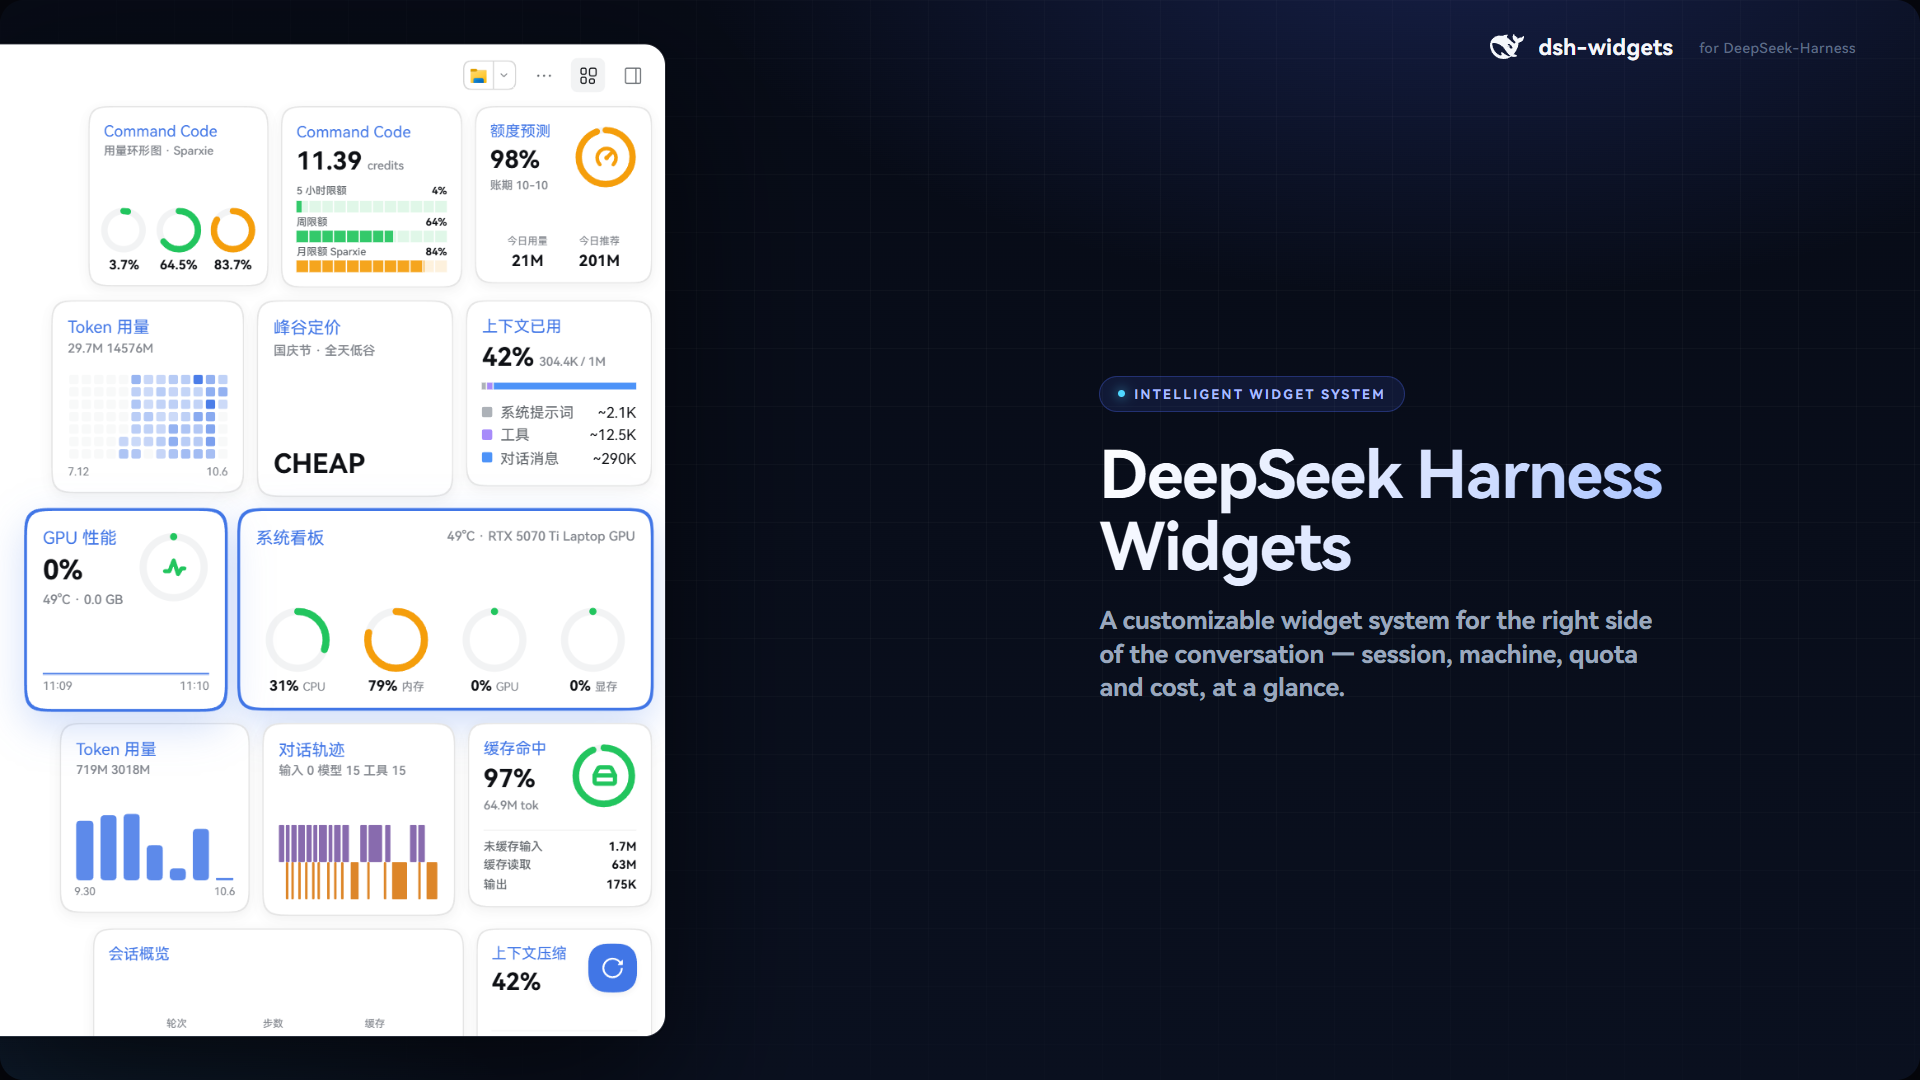
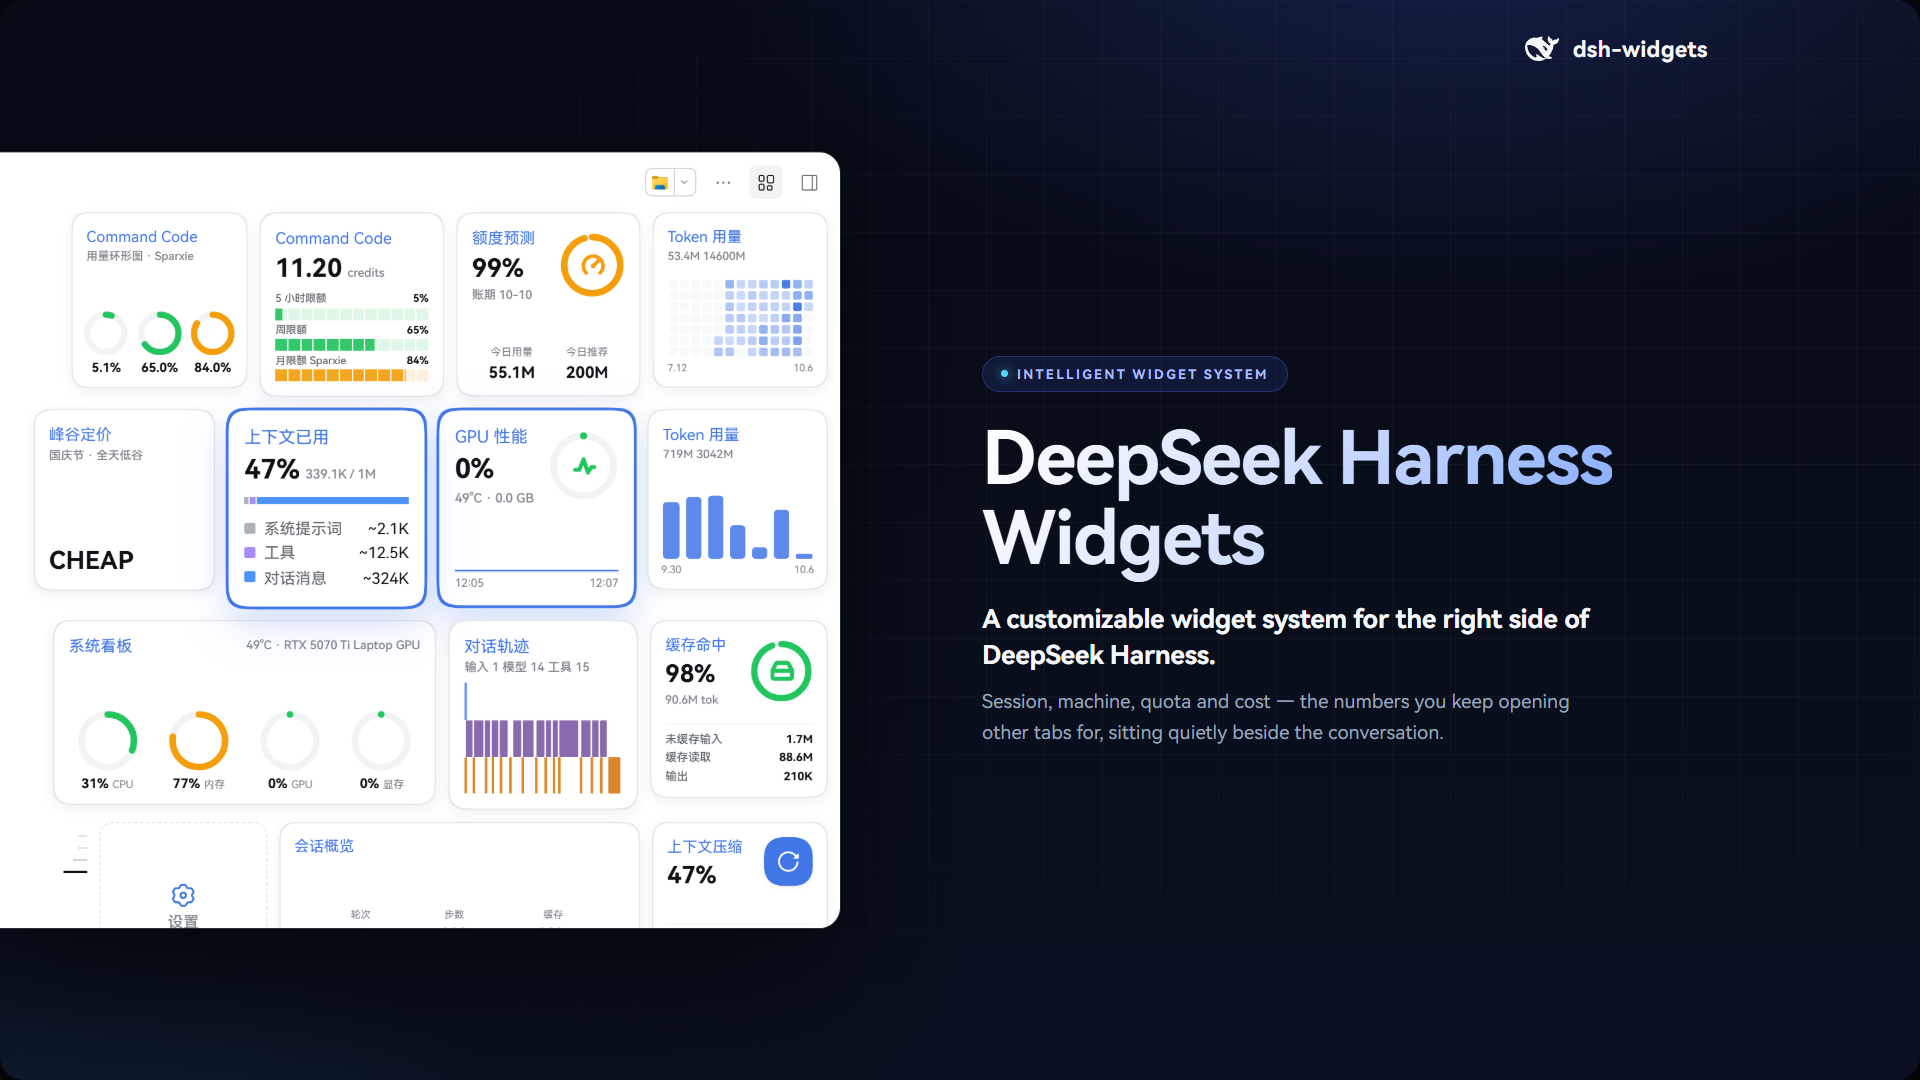
docs(readme): a two-language cover poster, and the rail shot in four columns
The cover is now a poster with the widgets on the left and the copy on the right, both languages: cover.png (English) and cover.zh-CN.png (?lang=zh), so README.md and README.zh-CN.md each show their own. The rail in it is a FOUR-column capture with the hover wave engaged, cropped to the rail so no conversation is ever in frame.

The description matches the README hero word for word, the brand row keeps only the logo and the wordmark, and the brand row plus both description lines are given the title own width so the block has one left edge and one right edge.

Changed region(s): [[0.0, 0.0306, 0.4375, 0.9778], [0.5, 0.3056, 0.875, 0.7028], [0.7812, 0.0306, 0.9688, 0.0611]]

diff --git a/docs/screenshots/README.md b/docs/screenshots/README.md
@@ -4,19 +4,24 @@ The captured / generated images the README and the plugin market showcase use.
 
 | File | Origin | What it shows |
 | --- | --- | --- |
+| `cover.png` | generated | the poster on the README's first screen (English copy) — `docs/poster/index.html` via `node docs/poster/render.cjs` |
+| `cover.zh-CN.png` | generated | the same poster with the Chinese copy (`?lang=zh`), used by `README.zh-CN.md` |
+| `desktop-rail.png` | captured, desktop app | the rail in a 4-column grid with the hover wave engaged (shot by `scripts/demo/desktop-shots.cjs`; the poster embeds it as `docs/poster/rail-portrait.png`) |
+| `desktop-rail-rest.png` | captured, desktop app | the same rail at rest, 3 columns |
+| `desktop-market.png` | captured, desktop app | the market panel — install, resize and switch cards off |
+| `rail-demo.gif` | captured, frame-stepped | the magnification wave in motion (13 fps palette GIF, 480×784, 3.8 MB) |
+| `rail-demo.mp4` | captured, frame-stepped | the same clip at full resolution (948×1548, 25 fps, 1.5 MB) |
 | `rail-widgets.png` | captured | the right-hand rail with its widgets seated |
 | `dock-magnify.png` | captured | the macOS-Dock-style magnification wave |
 | `add-panel.png` | captured | the add-widget panel |
-| `rail-demo.gif` | captured, frame-stepped | the magnification wave in motion — the README's motion asset (13 fps palette GIF, 480×784, 3.8 MB) |
-| `rail-demo.mp4` | captured, frame-stepped | the same clip at full resolution (948×1548, 25 fps, 1.5 MB) |
 | `widget-cards.png` | generated | the first five widget cards, screenshotted from `widget-cards-preview.html` with headless Edge |
 | `widget-cards-preview.html` | generated | a standalone HTML page reproducing those five cards (re-shoot with `msedge --headless=new --screenshot=widget-cards.png --window-size=900,260 widget-cards-preview.html`) |
 
-The two `rail-demo.*` files come from `node scripts/demo/rail-demo.cjs` — **not** a screen
-recorder. The script steps the live page on CDP virtual time (one exact per-frame budget
-per screenshot), so the same input renders the same clip, and it crops to the rail alone
-so the owner's conversation never lands in a public asset. Re-run it after a visual change
-that deserves to be seen in motion.
+The `desktop-*` files come from `scripts/demo/desktop-shots.cjs` — captures of the running
+app with the type forced to HarmonyOS Sans SC at capture time (verified with CDP's platform
+font report), cropped so the owner's conversation is never in a public asset. The two
+`rail-demo.*` files come from `scripts/demo/rail-demo.cjs`, which steps the page on CDP
+virtual time (one exact per-frame budget per screenshot) instead of screen-recording it.
 
 ## Plugin market (dsh-market) PR — optional
 

diff --git a/README.zh-CN.md b/README.zh-CN.md
@@ -45,7 +45,7 @@ dsh plugin --profile <你的 profile 名> add dsh-widgets
 </p>
 
 <p align="center">
-  <img src="docs/screenshots/cover.png" alt="DeepSeek-Harness Widgets 预览" width="100%">
+  <img src="docs/screenshots/cover.zh-CN.png" alt="DeepSeek-Harness Widgets 预览" width="100%">
 </p>
 
 <p align="center">
